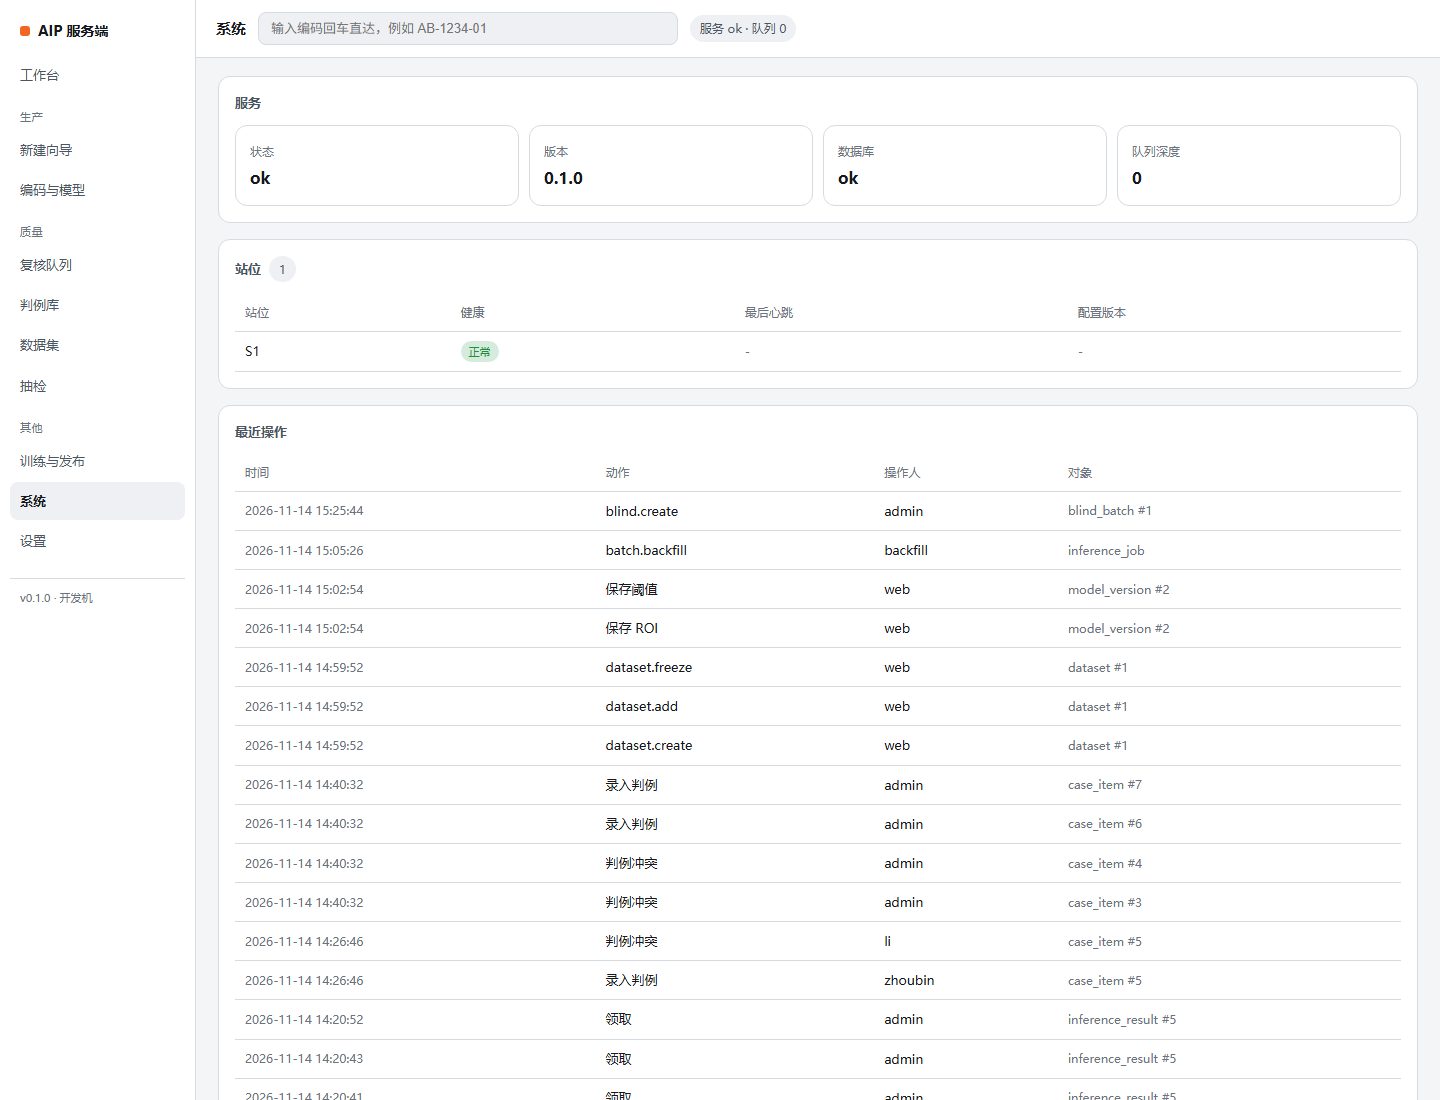
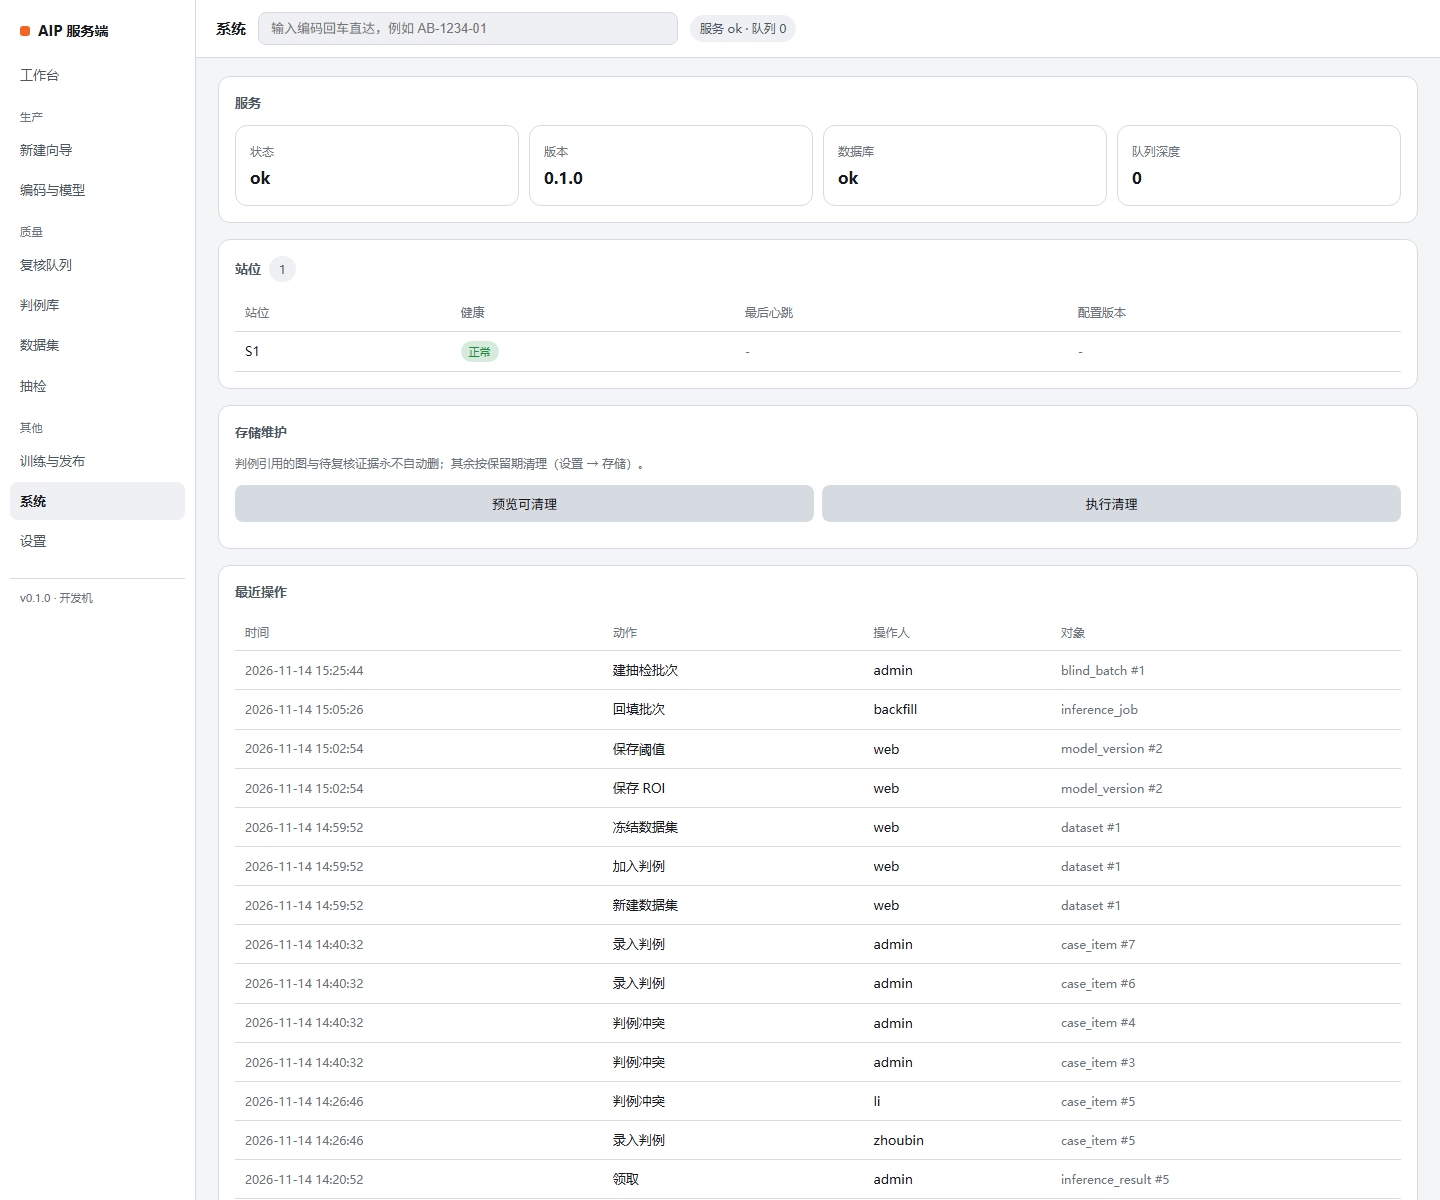
feat: 证据保留策略（判例/待复核永不删，按保留期清理）

diff --git a/aip/web/admin.html b/aip/web/admin.html
@@ -300,6 +300,18 @@ async function renderWorkbench() {
     </section>
 
     <section>
+      <h2>存储维护</h2>
+      <p class="muted" style="margin:0 0 12px">
+        判例引用的图与待复核证据永不自动删；其余按保留期清理（设置 → 存储）。
+      </p>
+      <div class="row">
+        <button class="ghost" id="btnPreview">预览可清理</button>
+        <button class="ghost" id="btnClean">执行清理</button>
+      </div>
+      <div id="storageOut" class="muted" style="margin-top:10px"></div>
+    </section>
+
+    <section>
       <h2>最近操作</h2>
       ${audit.length ? `<div class="timeline">${audit.map(a => `
         <div class="tl"><time>${fmtTime(a.created_at)}</time><span class="kind">${esc(actionLabel(a.action))}</span>
@@ -1170,6 +1182,18 @@ async function renderSystem() {
           <td class="muted">${fmtTime(s.last_seen_at)}</td>
           <td class="muted">${esc(s.last_config_rev || "-")}</td>
         </tr>`).join("")}</tbody></table>`}
+    </section>
+
+    <section>
+      <h2>存储维护</h2>
+      <p class="muted" style="margin:0 0 12px">
+        判例引用的图与待复核证据永不自动删；其余按保留期清理（设置 → 存储）。
+      </p>
+      <div class="row">
+        <button class="ghost" id="btnPreview">预览可清理</button>
+        <button class="ghost" id="btnClean">执行清理</button>
+      </div>
+      <div id="storageOut" class="muted" style="margin-top:10px"></div>
     </section>
 
     <section>

diff --git a/tests/test_retention.py b/tests/test_retention.py
@@ -1,0 +1,107 @@
+"""证据保留验收：判例与待复核不删，其余按保留期清理。"""
+
+from __future__ import annotations
+
+import os
+import time
+from pathlib import Path
+
+import pytest
+
+from aip import retention, store
+
+DAY = 86400
+
+
+@pytest.fixture()
+def env(tmp_path):
+    db = tmp_path / "r.db"
+    conn = store.connect(db)
+    store.migrate(conn)
+    data_dir = tmp_path
+    (data_dir / "crops").mkdir()
+    (data_dir / "smoke").mkdir()
+    (data_dir / "cases").mkdir()
+    yield conn, data_dir
+    conn.close()
+
+
+def _file(path, age_days: float) -> None:
+    path.write_bytes(b"x" * 100)
+    ts = time.time() - age_days * DAY
+    os.utime(path, (ts, ts))
+
+
+def _seed_result(conn, crop: str, status="done", confirmed=None) -> int:
+    conn.execute("INSERT OR IGNORE INTO product_code (code) VALUES ('AB-1')")
+    conn.execute("INSERT OR IGNORE INTO model (code) VALUES ('M1')")
+    mid = conn.execute("SELECT id FROM model").fetchone()["id"]
+    conn.execute(
+        "INSERT OR IGNORE INTO model_version (model_id, version_no, status) VALUES (?, 1, 'assist')",
+        (mid,),
+    )
+    vid = conn.execute("SELECT id FROM model_version").fetchone()["id"]
+    job = conn.execute(
+        "INSERT INTO inference_job (code, idempotency_key, status) VALUES ('AB-1', ?, 'done')",
+        (f"k{time.time_ns()}",),
+    )
+    conn.execute(
+        "INSERT INTO inference_result (job_id, score, label, model_version_id, crop_path,"
+        " review_status, confirmed_at) VALUES (?, 0.9, 'ng', ?, ?, ?, ?)",
+        (job.lastrowid, vid, crop, status, confirmed),
+    )
+    conn.commit()
+    return int(job.lastrowid)
+
+
+def test_plan_keeps_case_and_pending_evidence(env):
+    conn, data_dir = env
+    case_img = data_dir / "crops" / "case.png"
+    pend_img = data_dir / "crops" / "pending.png"
+    old_img = data_dir / "crops" / "old.png"
+    smoke = data_dir / "smoke" / "s.png"
+    for p, age in ((case_img, 90), (pend_img, 90), (old_img, 90), (smoke, 30)):
+        _file(p, age)
+
+    _seed_result(conn, str(case_img), status="done", confirmed="2026-01-01T00:00:00Z")
+    _seed_result(conn, str(pend_img), status="pending", confirmed=None)
+    _seed_result(conn, str(old_img), status="done", confirmed="2026-01-01T00:00:00Z")
+
+    conn.execute("INSERT INTO product_code (code) VALUES ('AB-2')")
+    pid = conn.execute("SELECT id FROM product_code WHERE code='AB-2'").fetchone()["id"]
+    conn.execute(
+        "INSERT INTO case_item (product_code_id, crop_path, verdict, adjudicator)"
+        " VALUES (?, ?, 'ok', 'z')",
+        (pid, str(case_img)),
+    )
+    conn.commit()
+
+    plan = retention.plan(conn, data_dir, crop_days=30, smoke_days=7)
+    paths = {Path(d["path"]).name for d in plan["deletable"]}
+    assert "case.png" not in paths      # 判例引用
+    assert "pending.png" not in paths   # 待复核
+    assert "old.png" in paths           # 旧且已确认
+    assert "s.png" in paths             # 旧冒烟图
+
+
+def test_fresh_files_are_kept(env):
+    conn, data_dir = env
+    fresh = data_dir / "crops" / "fresh.png"
+    _file(fresh, 1)
+    _seed_result(conn, str(fresh), status="done", confirmed="2026-01-01T00:00:00Z")
+    plan = retention.plan(conn, data_dir, crop_days=30, smoke_days=7)
+    assert plan["count"] == 0
+
+
+def test_apply_deletes_and_audits(env):
+    conn, data_dir = env
+    old = data_dir / "crops" / "old.png"
+    _file(old, 90)
+    _seed_result(conn, str(old), status="done", confirmed="2026-01-01T00:00:00Z")
+
+    out = retention.apply(conn, data_dir, crop_days=30, smoke_days=7)
+    assert out["removed"] == 1
+    assert not old.exists()
+    audit = conn.execute("SELECT action FROM audit_log ORDER BY id DESC LIMIT 1").fetchone()
+    assert audit["action"] == "storage.retention"
+

diff --git a/aip/src/aip/retention.py b/aip/src/aip/retention.py
@@ -1,0 +1,93 @@
+"""证据保留（存储维护）。
+
+原则：
+1. 判例引用的图**永不自动删**——训练集与审计要用；
+2. 待复核（pending/claimed）的判定证据不删；
+3. 其余按保留天数清理；冒烟图默认 7 天；
+4. 只删数据目录内、且 mtime 早于阈值的文件；
+5. 先预览、再执行，执行留审计。
+"""
+
+from __future__ import annotations
+
+import sqlite3
+import time
+from pathlib import Path
+
+from .audit import record
+from .store import tx
+
+DAY = 86400
+
+
+def _referenced(conn: sqlite3.Connection) -> set[str]:
+    refs: set[str] = set()
+    for row in conn.execute("SELECT crop_path FROM case_item WHERE crop_path IS NOT NULL"):
+        refs.add(str(Path(row["crop_path"]).resolve()))
+    for row in conn.execute(
+        "SELECT r.crop_path FROM inference_result r"
+        " WHERE r.crop_path IS NOT NULL AND (r.review_status IN ('pending','claimed')"
+        " OR r.confirmed_at IS NULL)"
+    ):
+        refs.add(str(Path(row["crop_path"]).resolve()))
+    return refs
+
+
+def plan(
+    conn: sqlite3.Connection,
+    data_dir: Path,
+    *,
+    crop_days: int = 30,
+    smoke_days: int = 7,
+    now: float | None = None,
+) -> dict:
+    root = Path(data_dir).resolve()
+    referenced = _referenced(conn)
+    now_ts = now if now is not None else time.time()
+
+    deletable: list[dict] = []
+    for sub, days in (("crops", crop_days), ("smoke", smoke_days)):
+        folder = root / sub
+        if not folder.is_dir():
+            continue
+        cutoff = now_ts - max(0, days) * DAY
+        for path in folder.rglob("*"):
+            if not path.is_file():
+                continue
+            resolved = str(path.resolve())
+            if resolved in referenced:
+                continue
+            stat = path.stat()
+            if stat.st_mtime > cutoff:
+                continue
+            deletable.append({"path": resolved, "bytes": stat.st_size, "kind": sub})
+
+    return {
+        "deletable": deletable,
+        "count": len(deletable),
+        "bytes": sum(d["bytes"] for d in deletable),
+        "crop_days": crop_days,
+        "smoke_days": smoke_days,
+        "data_dir": str(root),
+    }
+
+
+def apply(conn: sqlite3.Connection, data_dir: Path, *, crop_days: int, smoke_days: int,
+          actor: str = "maintenance") -> dict:
+    result = plan(conn, data_dir, crop_days=crop_days, smoke_days=smoke_days)
+    removed = 0
+    freed = 0
+    for item in result["deletable"]:
+        path = Path(item["path"])
+        try:
+            if path.is_file():
+                path.unlink()
+                removed += 1
+                freed += item["bytes"]
+        except OSError:
+            continue
+    with tx(conn):
+        record(conn, actor=actor, action="storage.retention", entity="data",
+               payload={"removed": removed, "bytes": freed,
+                        "crop_days": crop_days, "smoke_days": smoke_days})
+    return {"removed": removed, "bytes": freed, "planned": result["count"]}

diff --git a/scripts/retention.py b/scripts/retention.py
@@ -1,0 +1,44 @@
+"""证据保留清理。
+
+    python scripts/retention.py            # 预览
+    python scripts/retention.py --apply    # 执行（留审计）
+"""
+
+from __future__ import annotations
+
+import argparse
+import json
+import sys
+from pathlib import Path
+
+ROOT = Path(__file__).resolve().parents[1]
+sys.path.insert(0, str(ROOT / "aip" / "src"))
+
+from aip import retention, settings as settings_mod, store  # noqa: E402
+
+
+def main() -> int:
+    ap = argparse.ArgumentParser()
+    ap.add_argument("--db", default=str(ROOT / "data" / "aip.db"))
+    ap.add_argument("--apply", action="store_true")
+    args = ap.parse_args()
+
+    conn = store.connect(Path(args.db))
+    data_dir = Path(args.db).resolve().parent
+    crop_days = settings_mod.get_value(conn, "retention.crop_days")
+    smoke_days = settings_mod.get_value(conn, "retention.smoke_days")
+    out = (
+        retention.apply(conn, data_dir, crop_days=crop_days, smoke_days=smoke_days)
+        if args.apply
+        else retention.plan(conn, data_dir, crop_days=crop_days, smoke_days=smoke_days)
+    )
+    conn.close()
+    printable = {k: v for k, v in out.items() if k != "deletable"}
+    print(json.dumps(printable, ensure_ascii=False, indent=2))
+    if not args.apply:
+        print("预览。确认后加 --apply")
+    return 0
+
+
+if __name__ == "__main__":
+    raise SystemExit(main())

diff --git a/aip/src/aip/api/routes_settings.py b/aip/src/aip/api/routes_settings.py
@@ -7,7 +7,9 @@ from typing import Any
 
 from fastapi import APIRouter, Depends
 from pydantic import BaseModel
+from pathlib import Path
 
+from .. import retention
 from .. import settings as settings_mod
 from .deps import get_conn
 from .errors import ApiError
@@ -52,3 +54,21 @@ def update_setting(
     except ValueError as exc:
         raise ApiError("invalid_setting", str(exc), "按提示范围修正", 400) from exc
     return {"key": key, "value": value}
+
+
+class RetentionIn(BaseModel):
+    dry_run: bool = True
+    actor: str = "web"
+
+
+@router.post("/maintenance/retention")
+def maintenance_retention(body: RetentionIn, conn: sqlite3.Connection = Depends(get_conn)) -> dict:
+    db_file = Path(conn.execute("PRAGMA database_list").fetchone()[2])
+    crop_days = settings_mod.get_value(conn, "retention.crop_days")
+    smoke_days = settings_mod.get_value(conn, "retention.smoke_days")
+    if body.dry_run:
+        result = retention.plan(conn, db_file.parent, crop_days=crop_days, smoke_days=smoke_days)
+        return {"dry_run": True, **{k: result[k] for k in ("count", "bytes", "crop_days", "smoke_days")}}
+    return {"dry_run": False, **retention.apply(
+        conn, db_file.parent, crop_days=crop_days, smoke_days=smoke_days, actor=body.actor
+    )}

diff --git a/aip/src/aip/settings.py b/aip/src/aip/settings.py
@@ -38,6 +38,10 @@ SPECS: tuple[Spec, ...] = (
     Spec("train.window_start", "训练", "夜间窗口开始", "time", "01:00", "HH:MM", None, None),
     Spec("train.window_end", "训练", "夜间窗口结束", "time", "05:00", "HH:MM", None, None),
     Spec("train.max_minutes", "训练", "单次训练最长（分钟）", "int", 240, "超时视为失败", 10, 720),
+    Spec("retention.crop_days", "存储", "判定裁片保留天数", "int", 30,
+         "判例与待复核证据不受此限制", 1, 3650),
+    Spec("retention.smoke_days", "存储", "冒烟图保留天数", "int", 7,
+         "试判图只用于核对，可短保留", 1, 365),
     Spec("gate.min_side", "守门", "裁片最小边长（px）", "int", 32, "低于则拒绝", 8, 2048),
     Spec("gate.min_brightness", "守门", "亮度下限", "float", 10.0, "0–255", 0.0, 255.0),
     Spec("gate.max_brightness", "守门", "亮度上限", "float", 245.0, "0–255", 0.0, 255.0),
@@ -63,7 +67,7 @@ SPECS: tuple[Spec, ...] = (
 )
 
 BY_KEY = {s.key: s for s in SPECS}
-GROUPS = ("抽样", "判定", "复核", "训练", "守门", "理由预设")
+GROUPS = ("抽样", "判定", "复核", "训练", "守门", "存储", "理由预设")
 _TIME_RE = re.compile(r"^([01]\d|2[0-3]):[0-5]\d$")
 
 

diff --git a/README.md b/README.md
@@ -21,7 +21,7 @@
 | 抽检批次：盲判（不泄底）+ 三方签字 + 漏检/过杀指标 | ✅ |
 | 五步新建向导 | ⬜ 待做 |
 
-测试：`pytest` 144 项全绿。
+测试：`pytest` 147 项全绿。
 
 ---
 
